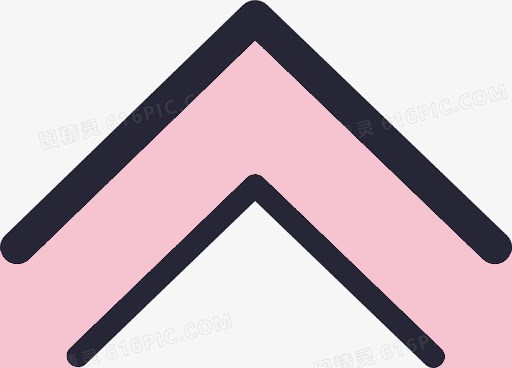
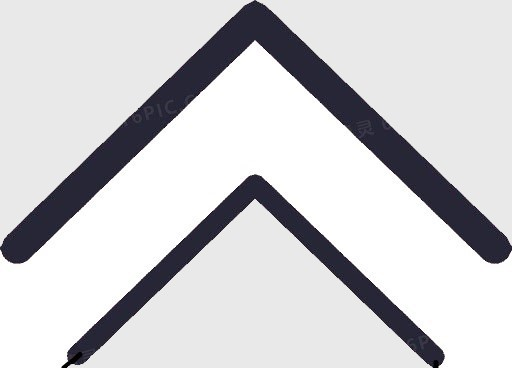
add Game

diff --git a/Game/share.js b/Game/share.js
@@ -13,18 +13,38 @@ function failure() {
 }
 
 function reprint() {
+    transcriptUp.end();
+
     ctx.drawImage(certificateImg2, 0, 716, bWid*bCols, 512);
     ctx.font = "50px Arial";
     ctx.fillStyle = "black";
     ctx.fillText( player.gpa.toFixed(3).toString(),185, 979);
     ctx.fillText( player.credit.toString(),245, 1037 );
 
-    ctx.drawImage(QRImg, 430, 960, 250, 250);
+    ctx.drawImage(QRImg, 470, 1000, 200, 200);
+}
+
+let transcriptUp = {
+    interval : 0,
+    ii : 0,
+    start : function() {
+        transcriptUp.interval = setInterval( transcriptUp.print1, 500);
+    },
+    end : function() {
+        clearInterval( transcriptUp.interval );
+    },
+    print1 : function() {
+        console.log(transcriptUp.ii);
+      if(transcriptUp.ii === 0) ctx.drawImage(upLast, 300, bRows*bHei-70, 125, 70 );
+      else ctx.drawImage(upLast2, 300, bRows*bHei-70, 125, 70 );
+
+        transcriptUp.ii = (transcriptUp.ii+1)%2;
+    }
 }
 
 function succeed() {
     clearInterval( jumpIntervalInLast );
 
-    ctx.drawImage(upLast, 300, bRows*bHei-70, 125, 70 );
+    transcriptUp.start();
     gameContainer.addEventListener("touchend", reprint );
 }

diff --git a/Game/Snake.html b/Game/Snake.html
@@ -5,13 +5,13 @@
     <link rel="stylesheet" href="style.css">
     <title>CFAS Snake</title>
 </head>
-<body>
+<body style="background-image: url('../Game/wel/backG.jpg');">
     <section id="top">
-        <img src="../Game/wel/YiMing.jpg" alt="Study Dog">
+        <img src="../Game/wel/MinYi.jpg" alt="Study Dog">
     </section>
 
     <div id="Game_window"  class="game-container">
-        <canvas id="Canvas_main" width="700" height="1228" style="background-color: white; border:6px solid #E06F26; display: block; margin: 0 auto; width:83vw"></canvas>
+        <canvas id="Canvas_main" width="700" height="1228" style="background-color: white; border:6px solid #f2cfa9; display: block; margin: 0 auto; width:83vw"></canvas>
 
         <script src="imgSrc.js"></script>
         <script src="Snake_variable.js"></script>
@@ -31,5 +31,8 @@
            <button onclick="controls.buttonReactRight();">RIGHT</button><br><br>
            <button onclick="controls.buttonReactDown();">DOWN</button>
        </div> -->
+
+    <!--<footer id="foot"><p>haha<br>h<br>g<br></p></footer>-->
+
    </body>
    </html>

diff --git a/Game/style.css b/Game/style.css
@@ -3,13 +3,30 @@ body {
 }
 
 #top {
-    background-color: rgb(198, 0, 1);
+    background-color: rgb(255, 255, 255);
     margin: 1.5% 11%;
     border-radius: 15px;
 }
 
 #top img {
     display: block;
-    width: 15%;
+    width: 96%;
     margin: 0 auto;
 }
+
+/*
+#footer {
+    background-image: url('../Game/wel/backFooter1.jpg');
+    background-repeat:no-repeat;
+    background-size:cover;
+    width: 100%;
+    height: 100px;
+}*/
+
+
+
+
+
+
+
+

diff --git a/Game/imgSrc.js b/Game/imgSrc.js
@@ -1,6 +1,8 @@
 
 let upLast = document.createElement("img");
 upLast.setAttribute("src", "../Game/wel/up.jpg");
+let upLast2 = document.createElement("img");
+upLast2.setAttribute("src", "../Game/wel/up2.jpg");
 
 let wel_up_img = [], wel_down_img = [];
 if( true )
